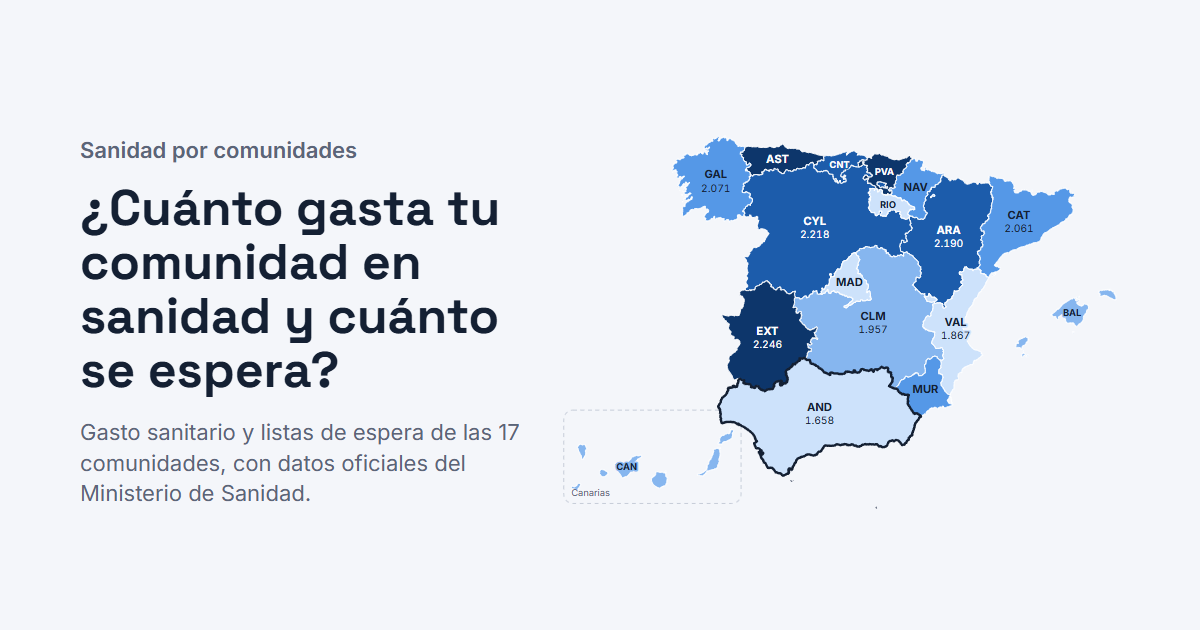
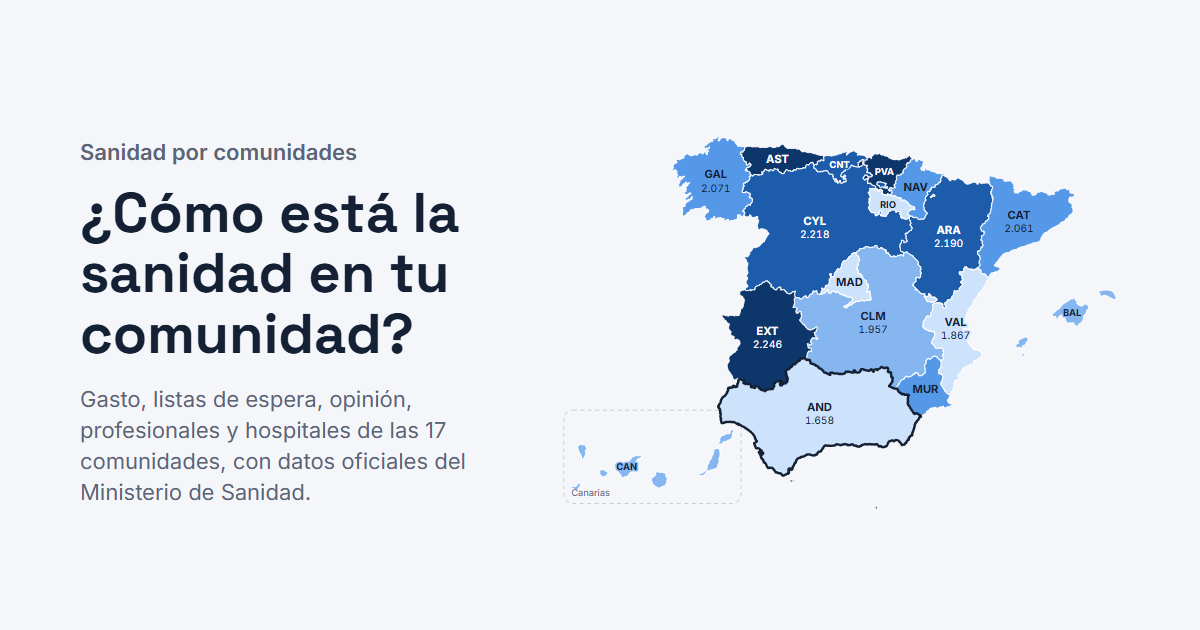
Título «¿Cómo está la sanidad en tu comunidad?», tema «Lo que opina la gente» y tasa sin «‰»
- Nuevo título de la página (y de la vista previa al compartir, og.png
  regenerada): ya no es solo gasto y espera.
- El tema del Barómetro pasa a llamarse «Lo que opina la gente» (los
  profesionales de atención primaria están en «Recursos»).
- La lista de espera por 1.000 habitantes se muestra sin «‰», que se confunde
  con «%»; la leyenda dice «pacientes por cada 1.000 habitantes».
- Temas en dos filas en el móvil.
- Ocupación: nota de que es una media anual y no muestra los picos.

Changed region(s): [[0.0617, 0.3016, 0.4317, 0.8143], [0.0617, 0.2111, 0.3083, 0.2714]]

diff --git a/src/lib/app/ui.ts b/src/lib/app/ui.ts
@@ -36,7 +36,8 @@ export function iniciar(DATA: DatosApp): void {
     if (v == null || !isFinite(v)) return "—";
     if (u === "eur_hab") return nf(0).format(v) + " €";
     if (u === "pct") return nf(1).format(v) + " %";
-    if (u === "por_mil") return nf(1).format(v) + " ‰";
+    // Sin «‰»: mucha gente lo confunde con «%». El título y la leyenda ya dicen «por 1.000 habitantes».
+    if (u === "por_mil") return nf(1).format(v);
     if (u === "dias") return nf(0).format(v) + " días";
     if (u === "num") return nf(0).format(v);
     if (u === "nota10") return nf(2).format(v);
@@ -126,7 +127,7 @@ export function iniciar(DATA: DatosApp): void {
     const L = 0.2126 * c[0] + 0.7152 * c[1] + 0.0722 * c[2];
     return (1.05 / (L + 0.05)) >= ((L + 0.05) / (0.0144 + 0.05)) ? "#ffffff" : "#142033";
   }
-  const UNI = { eur_hab: "euros por habitante", pct: "%", por_mil: "‰", dias: "días", dias_media: "días", nota10: "puntos (de 1 a 10)", personas: "personas por profesional", camas_mil: "camas por 1.000 habitantes", por_mil_hab: "por 1.000 habitantes", sesiones_mil: "sesiones por 1.000 habitantes", var: "% de crecimiento", pp: "puntos de cambio" };
+  const UNI = { eur_hab: "euros por habitante", pct: "%", por_mil: "pacientes por cada 1.000 habitantes", dias: "días", dias_media: "días", nota10: "puntos (de 1 a 10)", personas: "personas por profesional", camas_mil: "camas por 1.000 habitantes", por_mil_hab: "por 1.000 habitantes", sesiones_mil: "sesiones por 1.000 habitantes", var: "% de crecimiento", pp: "puntos de cambio" };
   const soloNum = (v, u) => u === "var" || u === "pp" ? fmt(v, u).replace(/ (%|p\.)$/, "") : nf(u === "eur_hab" || u === "dias" ? 0 : 1).format(v);
   // Devuelve el color de cada comunidad y la leyenda, según la paleta.
   function escala(vals, ind, pal0 = PAL) {
@@ -350,7 +351,7 @@ export function iniciar(DATA: DatosApp): void {
     cont.innerHTML = `<div class="seg" role="group" aria-label="Tema">
         <button type="button" data-g="gasto" aria-pressed="${grupo === "gasto"}">Gasto sanitario</button>
         <button type="button" data-g="espera" aria-pressed="${grupo === "espera"}">Listas de espera</button>
-        <button type="button" data-g="opinion" aria-pressed="${grupo === "opinion"}">Atención primaria y opinión</button>
+        <button type="button" data-g="opinion" aria-pressed="${grupo === "opinion"}">Lo que opina la gente</button>
         <button type="button" data-g="recursos" aria-pressed="${grupo === "recursos"}">Recursos</button>
       </div><div class="kpis">${tarjetas}</div>` + (enEuros(IND[actualId]) ? `<div class="real">
         <div class="seg sm" role="group" aria-label="Inflación">
@@ -768,7 +769,7 @@ export function iniciar(DATA: DatosApp): void {
   }
   const aplicar = (fn) => sinMover(() => { pararPlay(); fn(); render(); });
   const opt = (v, txt, sel, dis = false) => `<option value="${v}" ${sel ? "selected" : ""} ${dis ? "disabled" : ""}>${esc(txt)}</option>`;
-  const opcionesDato = () => ["gasto", "espera", "opinion", "recursos"].map((g) => `<optgroup label="${{ gasto: "Gasto sanitario", espera: "Listas de espera", opinion: "Atención primaria y opinión", recursos: "Recursos" }[g]}">${DATA.inds.filter((i) => i.grupo === g).map((i) => opt(i.id, i.corto, i.id === S.indP)).join("")}</optgroup>`).join("");
+  const opcionesDato = () => ["gasto", "espera", "opinion", "recursos"].map((g) => `<optgroup label="${{ gasto: "Gasto sanitario", espera: "Listas de espera", opinion: "Lo que opina la gente", recursos: "Recursos" }[g]}">${DATA.inds.filter((i) => i.grupo === g).map((i) => opt(i.id, i.corto, i.id === S.indP)).join("")}</optgroup>`).join("");
   const opcionesCampo = (base) => opt("total", "Todas (total)", S.campoE === "total") + familias(base).map((tipo) => `<optgroup label="${tipo === "procesos" ? "Procesos" : "Especialidades"}">${DATA.detalle[tipo].campos.filter((c) => c.id !== "total").map((c) => opt(`${tipo}:${c.id}`, c.nombre, S.campoE === `${tipo}:${c.id}`)).join("")}</optgroup>`).join("");
   const opcionesAnio = (ind, lista, sel) => lista.map((a) => opt(a, `${periodo(ind, a)}${esProv(a, ind) ? " (prov.)" : ""}`, a === sel)).join("");
   const opcionesCom = () => IDS.slice().sort((a, b) => NOMBRE[a].localeCompare(NOMBRE[b], "es")).map((k) => opt(k, NOMBRE[k], k === S.com)).join("");
@@ -1001,7 +1002,7 @@ export function iniciar(DATA: DatosApp): void {
   }
 
 
-  // ---------- Barómetro Sanitario (tema «Atención primaria y opinión») ----------
+  // ---------- Barómetro Sanitario (tema «Lo que opina la gente») ----------
   // Es una encuesta: cada cifra tiene margen de error. No se ordena a las comunidades como un registro: se dice si
   // su intervalo al 95 % queda por encima, por debajo o incluye el valor de España.
   const AVISO_OPINION_CIUDADES = "Ceuta y Melilla tienen muy pocas entrevistas (unas 30 por oleada) y márgenes de error muy grandes, así que no se muestran. Sus cifras están en las fuentes.";
@@ -1077,7 +1078,7 @@ export function iniciar(DATA: DatosApp): void {
       <p><b>Qué cuenta.</b> Las camas en funcionamiento (las que han funcionado de media en el año), en todos los hospitales: agudos, media y larga estancia y salud mental. Se cuentan en la comunidad donde está el hospital, aunque atienda a pacientes de otras comunidades. La red pública incluye los hospitales privados con concierto sustitutorio o de una Red de Utilización Pública; esa definición es la misma desde 2010, por eso la serie empieza ese año.</p>
       ${rec ? `<p><b>Camas que cambian de clasificación.</b> Total = camas públicas + privadas. Señalamos los años en que las públicas cambian un 10 % o más y las totales menos de un 5 %: son camas que la estadística pasa a contar como públicas (o como privadas). La fuente no explica por qué.</p><ul>${rec}</ul>` : ""}
       <p><b>Cómo lo comprobamos.</b> En cada fila, la población que sale de las camas públicas y la de las totales es la misma; el porcentaje de la red pública cuadra con las camas; la fila «TOTAL» es la suma de las comunidades, y España coincide con las tablas nacionales de evolución del SIAE.${R.etiquetasSiae.length ? ` ${erroresTablas(R.etiquetasSiae)}` : ""}</p>
-      <p><b>Ocupación y estancia media.</b> Son de los hospitales de agudos de la red pública (sin larga estancia ni salud mental), tal como los publica el Ministerio en las mismas tablas. Las comprobamos con su relación: ocupación = estancia media × índice de rotación (altas por cama) ÷ 365. En 2020 la ocupación baja en las 17 comunidades; ese año coincide con la pandemia de COVID-19. La cirugía mayor ambulatoria es el «porcentaje de ambulatorización» de la red pública; lo comprobamos recalculándolo con el número de operaciones con ingreso y sin ingreso de cada fila. Conviene leer las camas, la ocupación, la estancia y la cirugía sin ingreso juntas: pocas camas muy ocupadas no es lo mismo que muchas camas medio vacías, y si los pacientes se van antes a casa, la ocupación baja aunque haya las mismas camas.</p>
+      <p><b>Ocupación y estancia media.</b> Son de los hospitales de agudos de la red pública (sin larga estancia ni salud mental), tal como los publica el Ministerio en las mismas tablas. Las comprobamos con su relación: ocupación = estancia media × índice de rotación (altas por cama) ÷ 365. Es una media de todo el año y de todas las camas de agudos de la comunidad: los picos de unas semanas o de unas unidades concretas (como las UCI) no se ven en ella. En 2020 la ocupación baja en las 17 comunidades; ese año coincide con la pandemia de COVID-19. La cirugía mayor ambulatoria es el «porcentaje de ambulatorización» de la red pública; lo comprobamos recalculándolo con el número de operaciones con ingreso y sin ingreso de cada fila. Conviene leer las camas, la ocupación, la estancia y la cirugía sin ingreso juntas: pocas camas muy ocupadas no es lo mismo que muchas camas medio vacías, y si los pacientes se van antes a casa, la ocupación baja aunque haya las mismas camas.</p>
       <p><b>Ingresos y hospital de día.</b> Los ingresos son los de los hospitales de la red pública por 1.000 habitantes (cálculo propio: la tasa de ingresos que publica el Ministerio por su porcentaje de la red pública). El hospital de día cuenta las sesiones de todos los hospitales, públicos y privados, porque la tabla no las separa; en 2010-2013 solo trae el número de sesiones y calculamos la tasa con la población de esa misma tabla (desde 2014, cuando la tabla sí la publica, ese cálculo coincide con ella). Comprobamos que cada tasa cuadra con el número dividido entre la población.${(R.picos || []).length ? ` Años con una cifra muy distinta (un 40 % o más) de la del año anterior y la del siguiente: ${R.picos.map((x) => `${esc(NOMBRE[x.ccaa])} ${x.anio} (${fmt(x.valores[0], "sesiones_mil")}, ${fmt(x.valores[1], "sesiones_mil")} y ${fmt(x.valores[2], "sesiones_mil")} sesiones por 1.000 habitantes)`).join("; ")}. La cifra es la oficial; la fuente no explica el salto.` : ""}</p>
       <p><b>Hospitalización a domicilio: no la mostramos.</b> Las mismas tablas la traen, pero la serie no es coherente: Extremadura declara cero todos los años y Andalucía pasa de 12 a 1,4 pacientes por 1.000 ingresos y, en 2020, a 40. La fuente no explica estas diferencias, y con una serie así comparar comunidades sería engañoso.</p>
       <p><b>Más camas no es por sí solo mejor ni peor:</b> depende de cómo se organiza la atención (cirugía sin ingreso, hospital de día, atención a domicilio) y de la edad de la población. Los hospitales de referencia atienden también a pacientes de otras comunidades. Ceuta y Melilla van juntas en la fuente.</p>`;
@@ -1710,7 +1711,7 @@ export function iniciar(DATA: DatosApp): void {
     $("#m-cuerpo").innerHTML = `
       <h1>Cómo leer los datos</h1>
       <p>Todo lo que ves sale de estadísticas oficiales. Aquí explicamos qué mide cada dato, de dónde sale y qué hay que tener en cuenta para no sacar conclusiones equivocadas.</p>
-      <nav class="indice" aria-label="Apartados"><a href="#metodo-gasto">Gasto</a><a href="#metodo-espera">Listas de espera</a><a href="#metodo-opinion">Atención primaria y opinión</a><a href="#metodo-recursos">Recursos</a><a href="#metodo-inflacion">Inflación</a>${EDAD ? '<a href="#metodo-edad">Ajuste por edad</a>' : ""}<a href="#metodo-comparar">Comparar comunidades</a><a href="#metodo-entidades">Conciertos y entidades</a><a href="#metodo-notas">Notas del Ministerio</a><a href="#metodo-calidad">Avisos de calidad</a><a href="#metodo-limites">Lo que no dicen estos datos</a></nav>
+      <nav class="indice" aria-label="Apartados"><a href="#metodo-gasto">Gasto</a><a href="#metodo-espera">Listas de espera</a><a href="#metodo-opinion">Lo que opina la gente</a><a href="#metodo-recursos">Recursos</a><a href="#metodo-inflacion">Inflación</a>${EDAD ? '<a href="#metodo-edad">Ajuste por edad</a>' : ""}<a href="#metodo-comparar">Comparar comunidades</a><a href="#metodo-entidades">Conciertos y entidades</a><a href="#metodo-notas">Notas del Ministerio</a><a href="#metodo-calidad">Avisos de calidad</a><a href="#metodo-limites">Lo que no dicen estos datos</a></nav>
 
       <h2 id="metodo-gasto">Gasto sanitario público</h2>
       <p>Fuente: Ministerio de Sanidad, Estadística de Gasto Sanitario Público (EGSP), de ${ANIOS[0]} a ${ULT}. Es <b>gasto real liquidado</b>, es decir, lo que de verdad se gastó, no lo que se presupuestó. Por eso puede no coincidir con noticias que usan los presupuestos iniciales.</p>
@@ -1765,7 +1766,7 @@ export function iniciar(DATA: DatosApp): void {
         ${ENTIDADES.map((e) => `<tr><td>${esc(NOMBRE[e.ccaa])}</td><td>${e.anio}</td><td>${e.cambio === "entra" ? "Aparecen" : "Dejan de aparecer"}</td><td>${pctTxt(e.peso)}</td><td>${esc(e.entidades.filter((x) => x.peso >= 0.5).map((x) => x.nombre).join("; ") || "Varias pequeñas")}${e.entidades.some((x) => x.peso < 0.5) && e.entidades.some((x) => x.peso >= 0.5) ? " y otras más pequeñas" : ""}</td></tr>`).join("")}
       </tbody></table></div>
 
-      <h2 id="metodo-opinion">Atención primaria y opinión (Barómetro Sanitario)</h2>
+      <h2 id="metodo-opinion">Lo que opina la gente (Barómetro Sanitario)</h2>
       <p>Fuente: Barómetro Sanitario, encuesta anual del Ministerio de Sanidad y el Centro de Investigaciones Sociológicas (CIS) a la población de 18 y más años: entre unas 7.200 y 7.800 entrevistas al año (de 2022 a 2025), en tres oleadas.</p>
       <dl>${lista("opinion")}</dl>
       ${notasOpinion(null)}

diff --git a/src/lib/app/esqueleto.ts b/src/lib/app/esqueleto.ts
@@ -14,7 +14,7 @@ export const ESQUELETO = `<div class="wrap">
     <div class="intro">
       <div class="intro-cab">
         <div>
-          <h1>¿Cuánto gasta tu comunidad en sanidad y cuánto se espera?</h1>
+          <h1>¿Cómo está la sanidad en tu comunidad?</h1>
           <p id="p-intro">Datos oficiales del Ministerio de Sanidad.</p>
         </div>
       </div>
@@ -98,7 +98,7 @@ export const ESQUELETO = `<div class="wrap">
       <p class="extra" id="c-extra"></p>
     </div>
     <div class="bloque">
-      <h2>Atención primaria y opinión</h2>
+      <h2>Lo que opina la gente</h2>
       <p class="sub" id="c-opinion-sub"></p>
       <div class="contexto" id="c-opinion"></div>
       <div class="notas-min" id="c-opinion-notas"></div>
@@ -120,7 +120,7 @@ export const ESQUELETO = `<div class="wrap">
     <ul>
       <li>Gasto: Ministerio de Sanidad, <a href="https://www.sanidad.gob.es/estadEstudios/estadisticas/sisInfSanSNS/finGastoSanit.htm">Estadística de Gasto Sanitario Público</a> (<span id="f-gasto">gasto real</span>).</li>
       <li>Listas de espera: Ministerio de Sanidad, <a href="https://www.sanidad.gob.es/estadEstudios/estadisticas/inforRecopilaciones/listaEspera.htm">SISLE-SNS</a>, datos por comunidad autónoma (<span id="f-listas">último corte</span>).</li>
-      <li>Atención primaria y opinión: Ministerio de Sanidad y CIS, <a href="https://www.sanidad.gob.es/estadEstudios/estadisticas/inforRecopilaciones/barometro/home.htm">Barómetro Sanitario</a> (serie por comunidad y microdatos del CIS; enlaces a cada fichero en «Cómo leer los datos»).</li>
+      <li>Lo que opina la gente: Ministerio de Sanidad y CIS, <a href="https://www.sanidad.gob.es/estadEstudios/estadisticas/inforRecopilaciones/barometro/home.htm">Barómetro Sanitario</a> (serie por comunidad y microdatos del CIS; enlaces a cada fichero en «Cómo leer los datos»).</li>
       <li>Recursos: Ministerio de Sanidad, <a href="https://pestadistico.inteligenciadegestion.sanidad.gob.es/publicoSNS/S/sistema-de-informacion-de-atencion-primaria-siap">Sistema de Información de Atención Primaria (SIAP)</a> (profesionales y población asignada, 2004-2025) y <a href="https://www.sanidad.gob.es/estadEstudios/estadisticas/estHospiInternado/inforAnual/homeESCRI.htm">Estadística de Centros Sanitarios de Atención Especializada (SIAE)</a> (camas, ocupación, estancia media, cirugía mayor ambulatoria, ingresos y hospital de día, 2010-2023).</li>
       <li>Inflación: INE, <a href="https://www.ine.es/dyngs/INEbase/es/operacion.htm?c=Estadistica_C&amp;cid=1254736176802&amp;menu=ultiDatos&amp;idp=1254735976607">Índice de Precios de Consumo</a>, índice general nacional, media anual.</li>
       <li>Mapa: Instituto Geográfico Nacional, vía <a href="https://github.com/martgnz/es-atlas">es-atlas</a> (CC BY 4.0).</li>

diff --git a/src/app/layout.tsx b/src/app/layout.tsx
@@ -14,7 +14,7 @@ export const metadata: Metadata = {
   description: descripcion,
   // Vista previa al compartir el enlace (WhatsApp, redes sociales). Imagen: public/og.png (1200x630).
   openGraph: {
-    title: "¿Cuánto gasta tu comunidad en sanidad y cuánto se espera?",
+    title: "¿Cómo está la sanidad en tu comunidad?",
     description: descripcion,
     url: "/",
     siteName: "Sanidad por comunidades",
@@ -22,7 +22,7 @@ export const metadata: Metadata = {
     type: "website",
     images: [{ url: "/og.png", width: 1200, height: 630, alt: "Mapa de España con el gasto sanitario público por habitante de cada comunidad" }],
   },
-  twitter: { card: "summary_large_image", title: "¿Cuánto gasta tu comunidad en sanidad y cuánto se espera?", description: descripcion, images: ["/og.png"] },
+  twitter: { card: "summary_large_image", title: "¿Cómo está la sanidad en tu comunidad?", description: descripcion, images: ["/og.png"] },
 };
 
 export const viewport: Viewport = { width: "device-width", initialScale: 1, viewportFit: "cover" };

diff --git a/src/app/globals.css b/src/app/globals.css
@@ -384,3 +384,9 @@ dialog.ajustes::backdrop { background: rgb(0 0 0 / 0.4); }
 .evo-hist { margin-top: 22px; padding-top: 14px; border-top: 1px dashed var(--line); }
 .evo-hist h3 { font-size: 0.98rem; margin: 0 0 4px; }
 .evo-hist .sub { margin: 0 0 8px; }
+
+/* Temas en el móvil: dos filas de dos, cada botón en una sola línea */
+@media (max-width: 640px) {
+  .selector .seg[aria-label="Tema"] { display: grid; grid-template-columns: 1fr 1fr; justify-self: stretch; }
+  .selector .seg[aria-label="Tema"] button { white-space: nowrap; padding: 8px 6px; }
+}

diff --git a/src/lib/datos.ts b/src/lib/datos.ts
@@ -61,7 +61,7 @@ export function formatear(valor: number | undefined, unidad: Unidad): string {
     case "num":
       return numero(valor, 0);
     case "por_mil":
-      return `${numero(valor, 2)} ‰`;
+      return `${numero(valor, 2)} por 1.000`;
     case "dias":
       return `${numero(valor, 0)} días`;
     case "nota10":

diff --git a/CLAUDE.md b/CLAUDE.md
@@ -45,7 +45,7 @@ Proyecto: web estática (Next.js + TypeScript) que compara datos sanitarios púb
   además del público) se genera con `python scripts/extraer_contexto.py` (INE 56940, certificados IGN/INE de la
   liquidación, Encuesta de Salud de España 2023 con su intervalo al 95 %). Es contexto: no corrige el gasto. La tabla
   del INE trae el agregado «85 y más años» además de las edades sueltas: no sumarlo dos veces.
-- `src/data/barometro.json` (tema «Atención primaria y opinión», grupo `opinion` en `datos-app.ts`) se genera con
+- `src/data/barometro.json` (tema «Lo que opina la gente», grupo `opinion` en `datos-app.ts`) se genera con
   `python scripts/extraer_barometro.py`: serie oficial por comunidad del Ministerio (xlsx) + microdatos del CIS
   (`datos-originales/cis-barometro/`) + informe 2025. Es una encuesta: nunca puestos del 1 al 17 ni «Comparar años»;
   se dice si el intervalo al 95 % queda por encima, por debajo o incluye a España. 2022-2025 (teléfono) aparte de

diff --git a/README.md b/README.md
@@ -19,7 +19,7 @@ sanidad (Barómetro Sanitario) y los profesionales de atención primaria de las 
 
 - **Datos:** mapa (valor del año o crecimiento desde 2002), titulares automáticos, ranking, evolución
   (descontando o no la inflación), tabla con descarga en CSV, listas de espera por especialidad y proceso,
-  gráfico «¿Gastar más reduce la espera?» y «Atención primaria y opinión» (Barómetro Sanitario: satisfacción,
+  gráfico «¿Gastar más reduce la espera?» y «Lo que opina la gente» (Barómetro Sanitario: satisfacción,
   valoración del médico de familia y acceso, con margen de error frente a la media de España). La dirección guarda la vista para compartirla.
 - **Tu comunidad:** ficha con la posición en cada indicador frente a las otras 16, comparación con otra
   comunidad y notas del Ministerio sobre saltos en sus series.
